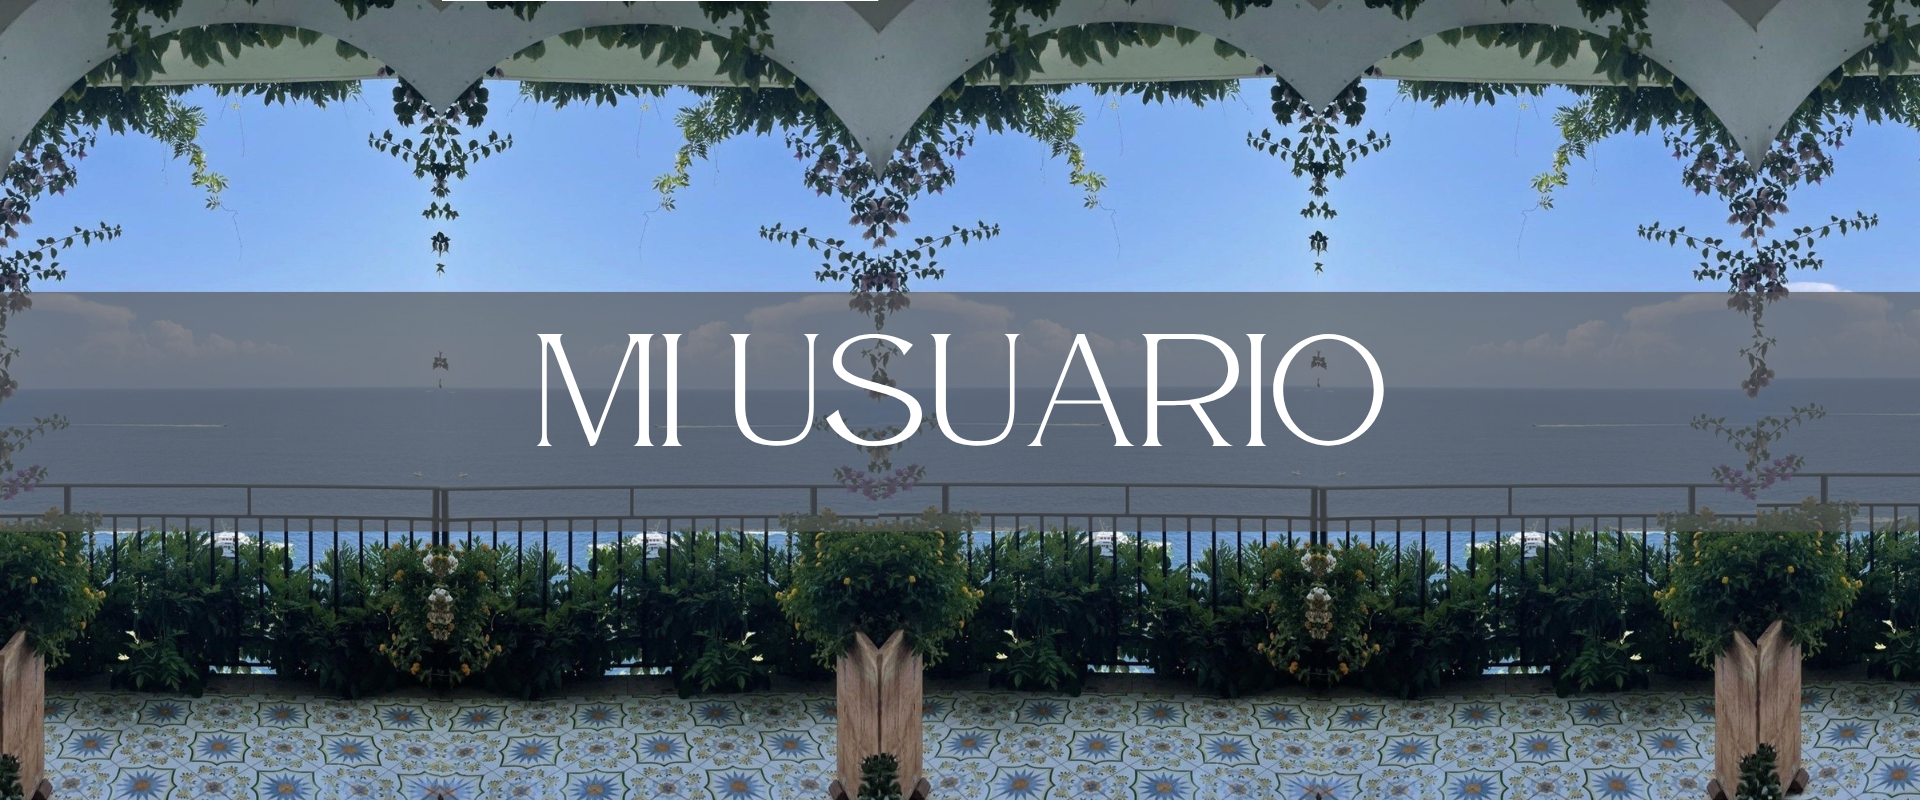
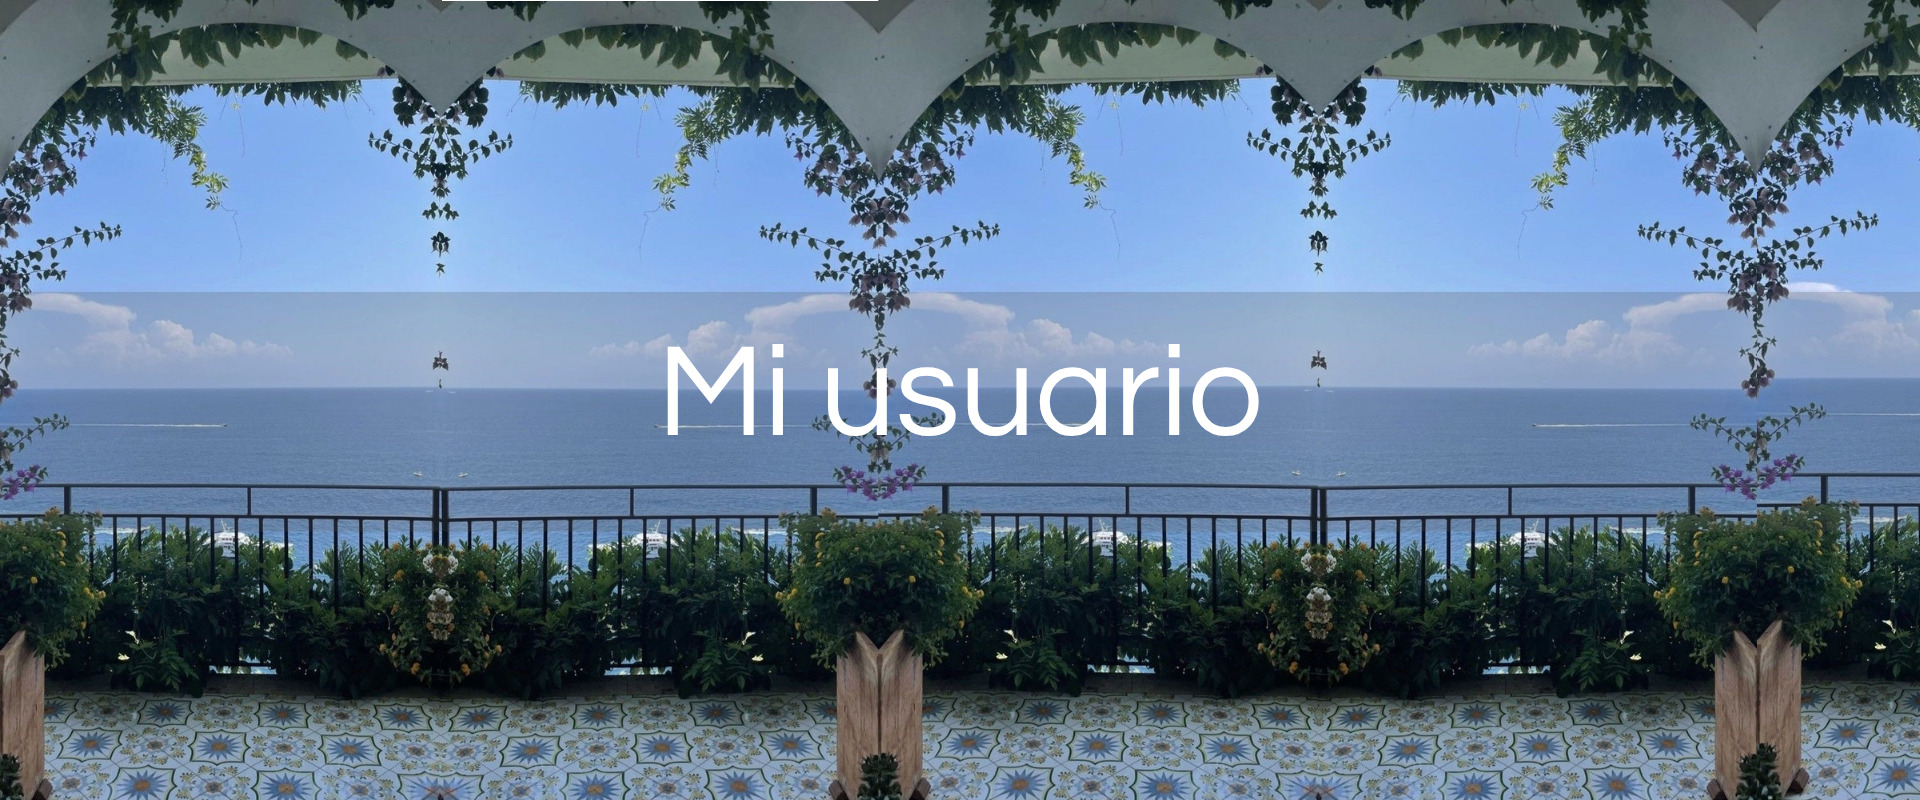
Quinto commit

Changed region(s): [[0.0, 0.3438, 1.0, 0.6875]]

diff --git a/usuarioIngresado.css b/usuarioIngresado.css
@@ -120,53 +120,80 @@
 }
 
 @media (max-width:640px){
-    #celu {
-        display: inline;
+    #portadaCelu {
+        display: block;
+        width: 300%;
+        margin-left: -60px;
     }
-    #compu {
+    #portadaCompu {
         display: none;
     }
-    #portada img {
-        width: 300%;
-        margin-left: -7px;
-    }
+
 }
 
 
 @media (min-width:641px){
-    #celu {
+    #portadaCelu {
         display: none;
     }
-    #compu {
-        display: inline;
-    }
-    #portada img {
+    #portadaCompu {
+        display: block;
         width: 100%;
     }
-
 }
 /*USUARIO*/
 #contenedorUsuario {
     display:flex;
-    justify-content: space-between;
     flex-direction: row;
     width: 100%;
-    margin: 0;
-    background-color: white; 
-    padding: 10px; 
-    align-items: center; 
+    background-color: rgba(244, 244, 244, 0.918);
+    align-items:flex-start;
+    padding: 15px; 
+}
+
+#texto {
+    width: 60%;
+    margin: 30px;
+}
+
+#imagen {
+    width: 40%;
+    margin-top: 10px;
+    display: flex;
+    justify-content: center;
+    margin-left: 0;
 }
 
 @media (max-width:640px){
+    #celu {
+        display: block;
+        width: 300%;
+        height:auto;
+    }
+    #compu {
+        display: none;
+    }
     #contenedorUsuario {
-        width: 80%;
+        flex-direction: column;
+        overflow:hidden;
+        margin:0;
+        padding: 0;
+    }
+    #imagen {
+        width: 200%;
+        margin:0;
     }
 }
 
 
 @media (min-width:641px){
-    #contenedorUsuario{
-        width: 100%;
+    #celu {
+        display: none;
+    }
+    #compu {
+        display: block;
+        width:100%;
+        height:auto;
     }
 }
 
@@ -179,11 +206,12 @@
     font-style: normal;
 }
 #imagen img{
-    width:300px;
+    width: 100%;
+    height: auto;
 }
 
 #datos{
-    margin-left:4%;
+    margin-left:10%;
     text-decoration: underline;
 }
 
@@ -197,6 +225,14 @@
 }
 
 .datosUsuario{
-    margin-left:7%;
+    margin-left:20%;
 }
 
+#cerrarSesion {
+    margin-left: auto;
+    background-color: rgba(202, 202, 202, 0.874);
+    border-radius: 5px;
+    border-width: 0px;
+    display: block;
+    color: rgb(97, 97, 97);
+}

diff --git a/usuarioIngresado.html b/usuarioIngresado.html
@@ -48,11 +48,12 @@
 
     <!-- PORTADA -->
     <div id="portada">
-        <img src="img/portada_miUsuario.png" alt="">
+        <img src="img/portada_miUsuario.png" alt="" id='portadaCompu'>
+        <img src="img/portada_miUsuarioCelu.png" alt="" id="portadaCelu">
     </div>
     <br><br><br><br><br>
     
-    <!-- SOBRE NOSOTROS -->
+    <!-- SOBRE EL USUARIO -->
     <div id="contenedorUsuario">
         <div id='texto'>
             <br><br><br>
@@ -60,16 +61,18 @@
             <br><br>
             <p id="datos">Estos son tus datos: </p>
             <p class='datosUsuario' id="mail"></p>
+            
             <br>
             <p class='datosUsuario' id="contrasena"></p>
             <br>
             <p class='datosUsuario' id="fecha"></p>
             <br><br>
-            <button class="btn btn-danger ms-4" id="cerrarSesion">Cerrar sesión</button>
+            <button class="datosUsuario" id="cerrarSesion">Cerrar sesión</button>
             <br><br>
         </div>
         <div id="imagen">
-            <img src="img/usuario.png">
+            <img src="img/login.png" alt="" id="compu">
+            <img src="img/loginCelu.png" alt="" id="celu">
         </div>
     </div>
 

diff --git a/usuario.js b/usuario.js
@@ -23,6 +23,14 @@ document.getElementById('botonIniciar').addEventListener('click', function(e) {
         if (usuario.contrasena === contrasena) {
             localStorage.setItem("usuarioActual", JSON.stringify(usuario)); 
             mostrarMensaje();
+            const usuarioActual = localStorage.getItem("usuarioActual");
+            if (usuarioActual) {
+                const usuario = JSON.parse(localStorage.getItem("usuarioActual"));
+            if (usuario) {
+                window.location.href = "usuarioIngresado.html"; 
+            }
+            }
+
         } else {
             alert("Contraseña incorrecta");
         }

diff --git a/usuarioIngresado.js b/usuarioIngresado.js
@@ -5,7 +5,7 @@ document.addEventListener('DOMContentLoaded', function () {
         document.getElementById('saludo').innerHTML = `Hola ${usuario.nombre}!`;
         document.getElementById ('mail').innerHTML = `Mail: ${usuario.mail}`;
         document.getElementById('fecha').innerHTML = `Fecha de nacimiento: ${usuario.fecha}`;
-        document.getElementById ('contrasena').innerHTML = `Contrasena: ${usuario.contrasena}`;
+        document.getElementById ('contrasena').innerHTML = `Contraseña: ${usuario.contrasena}`;
     }
 });
 

diff --git a/crearCuenta.js b/crearCuenta.js
@@ -19,7 +19,7 @@ document.getElementById('botonCrear').addEventListener ('click', function (e){
             localStorage.setItem("usuarioActual", JSON.stringify(nuevoUsuario)); // para login automático
             mostrarMensaje();
             document.getElementById('cerrarCrearCuenta').addEventListener('click', function(){
-                window.location.href = "usuario.html";
+                window.location.href = "usuarioIngresado.html";
             })
         }else{
             alert('Ya se ha registrado ese mail')

diff --git a/crearCuenta.html b/crearCuenta.html
@@ -63,7 +63,7 @@
             <input type='date' id="fecha">
             <br>
             <br>
-            <label>Contaseña:</label>
+            <label>Contraseña:</label>
             <input type="text" id="contrasena" placeholder="Minimo 8 caracteres">
             <br>
             <br>
